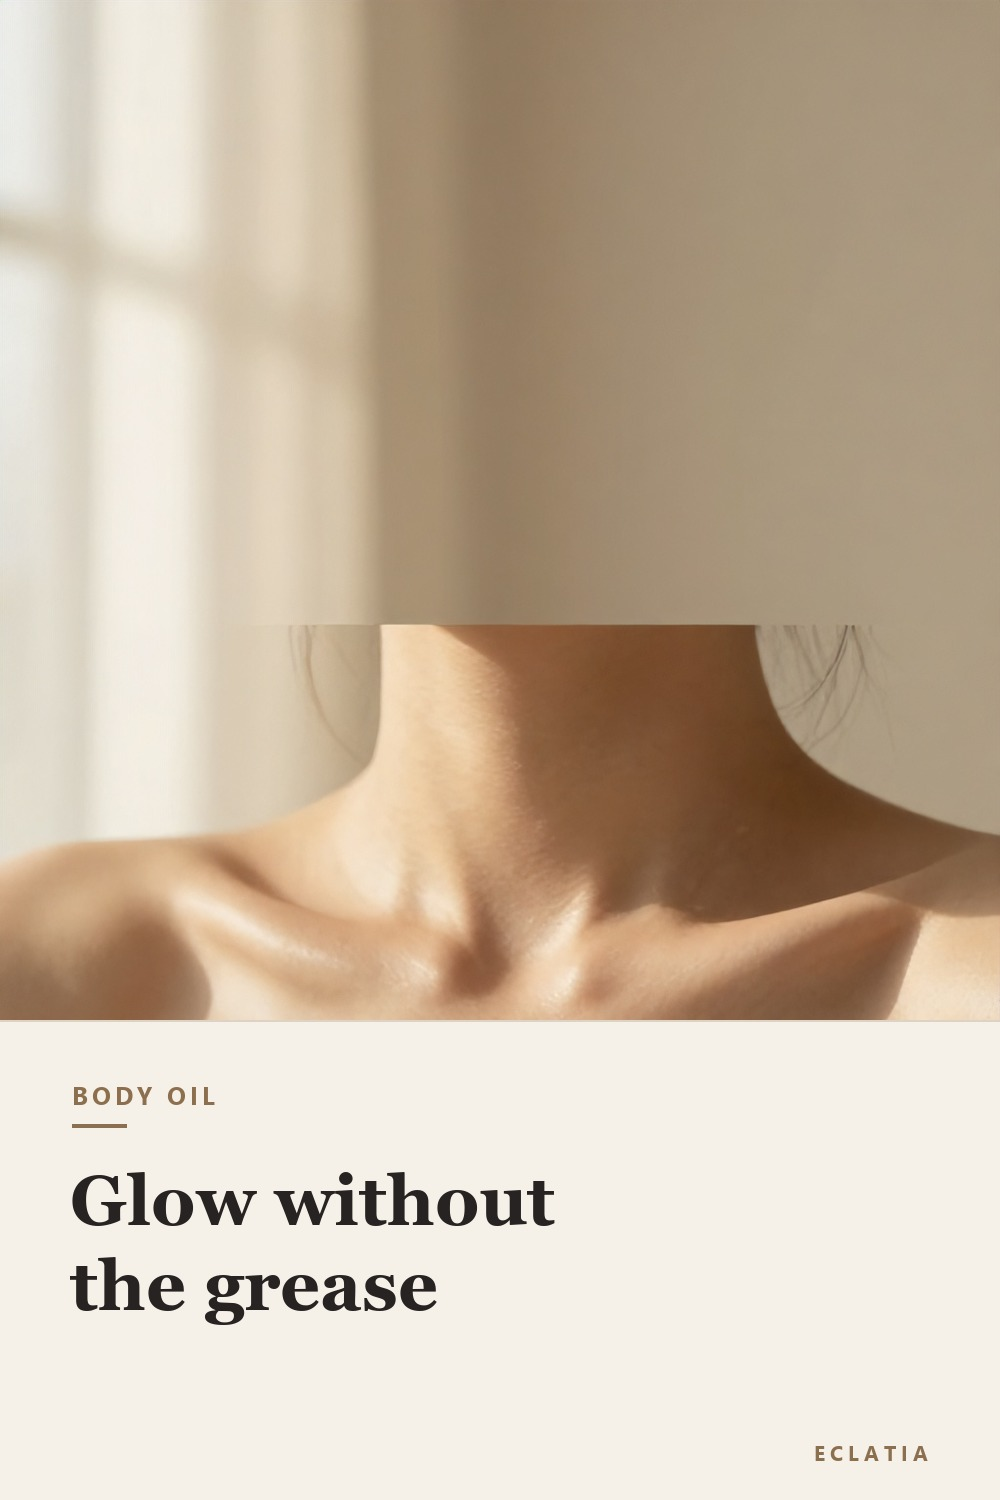
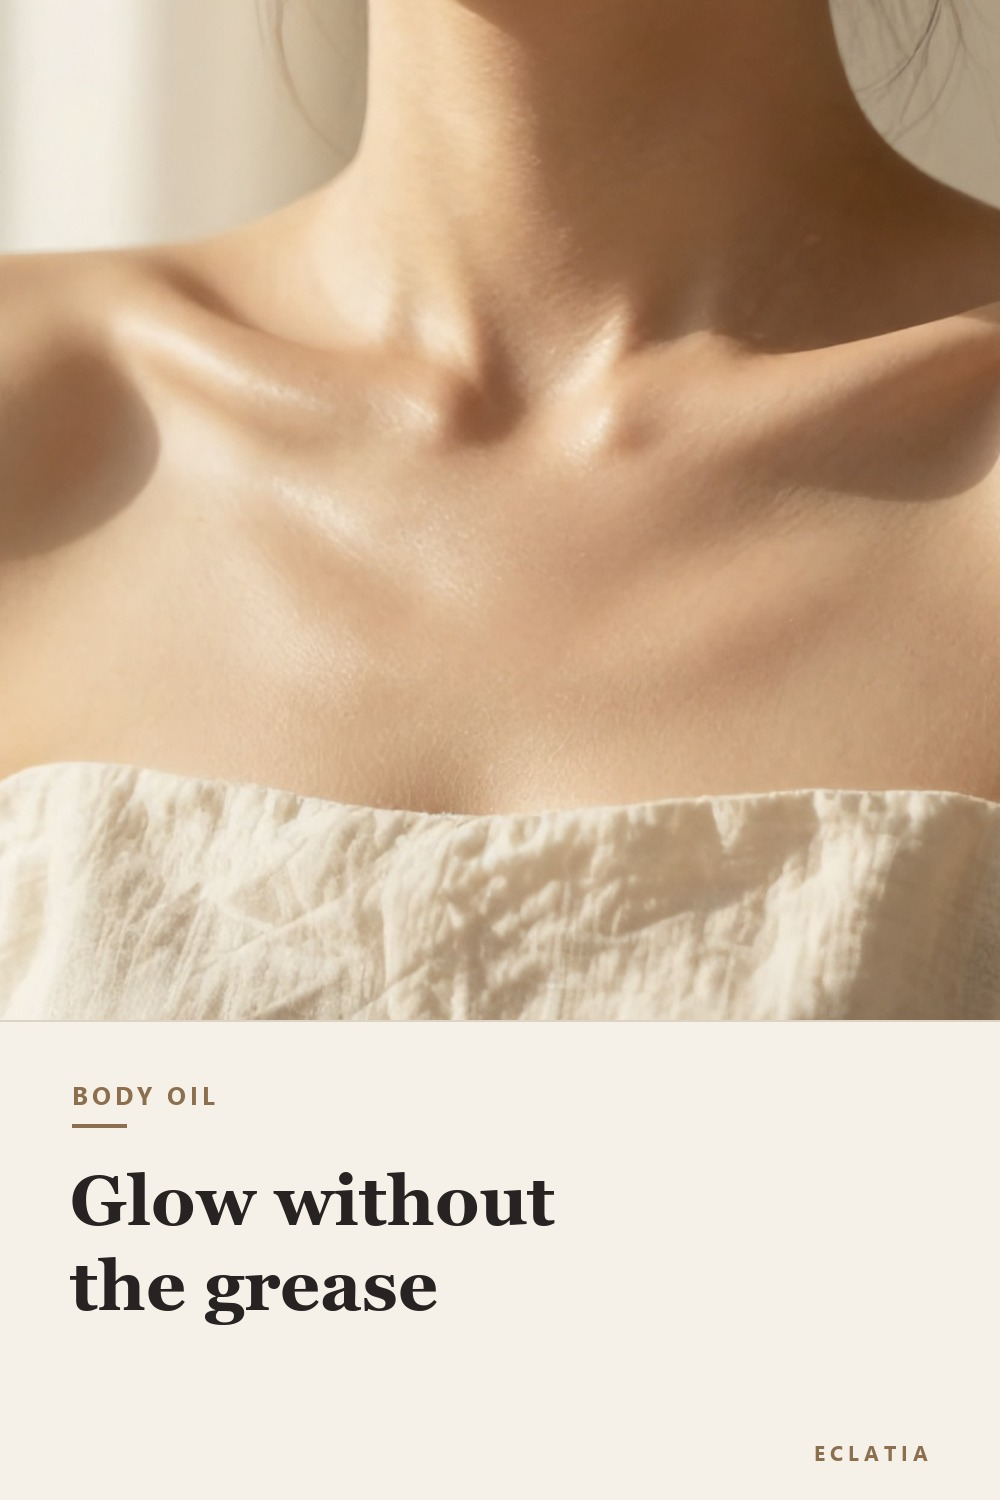
feat(body oil): pages G3/G4/G5/C3 en ligne + orthographe US + visuel P05 reconstruit + fiches pins P05-P08

diff --git a/app/guides/[slug]/page.tsx b/app/guides/[slug]/page.tsx
@@ -195,7 +195,7 @@ const CONTENUS: Record<string, Contenu> = {
       {
         h2: "Three profiles, three answers",
         ul: [
-          "Normal to dry skin, and you want a satin finish before going out: dry oil last, on skin that is already moisturised. Two pumps for the legs, one for the arms.",
+          "Normal to dry skin, and you want a satin finish before going out: dry oil last, on skin that is already moisturized. Two pumps for the legs, one for the arms.",
           "Very dry skin, tight after the shower: lotion or cream first, on skin that is still damp, then a thin layer of shea butter on elbows, knees and heels. Raw shea butter is not an oil: it is solid, melts on contact with warm skin and leaves a richer occlusive film. It is the right pick on an area that really pulls, and the wrong one if you dislike a greasy film.",
           "Reactive skin, redness, fragrance that does not sit well: a fragrance-free lotion or cream, and no scented oil. If you still want an oil, look for \u201cfragrance-free\u201d on the listing, not \u201cnatural scent\u201d.",
         ],
@@ -227,7 +227,7 @@ const CONTENUS: Record<string, Contenu> = {
         ul: [
           "No oil treats a skin condition such as eczema or psoriasis. That is a medical question, not a product choice.",
           "Fragranced oils are the first cause of irritation on reactive skin.",
-          "A dry oil can still mark light-coloured clothes if you overdose it.",
+          "A dry oil can still mark light-colored clothes if you overdose it.",
           "The glow is a visual effect. It does not mean the skin is better hydrated.",
         ],
       },
@@ -351,7 +351,7 @@ const CONTENUS: Record<string, Contenu> = {
   },
   "body-glow-oil": {
     intro: [
-      "A body glow oil is not a moisturiser with extra shine. It is a finishing product: it goes on last, over skin that is already hydrated, and its only job is the way the skin catches the light. Used that way, two pumps cover both legs.",
+      "A body glow oil is not a moisturizer with extra shine. It is a finishing product: it goes on last, over skin that is already hydrated, and its only job is the way the skin catches the light. Used that way, two pumps cover both legs.",
       "The confusion comes from two words that look interchangeable and are not: glow and shimmer. One is a finish, the other is a particle. Below: the four product types side by side, the 4-step method, the two mistakes that turn a sheen into grease, and who should skip it altogether.",
     ],
     reponse:
@@ -390,7 +390,7 @@ const CONTENUS: Record<string, Contenu> = {
           entetes: ["Mistake", "What happens", "Fix"],
           lignes: [
             ["Putting it on the whole body", "Too much surface, too much product, shine everywhere", "Only the areas that catch the light"],
-            ["Putting it on dry, unmoisturised skin", "The oil sits on the surface and the skin still feels tight", "Lotion first, oil last"],
+            ["Putting it on dry, unmoisturized skin", "The oil sits on the surface and the skin still feels tight", "Lotion first, oil last"],
           ],
         },
         p: [
@@ -402,7 +402,7 @@ const CONTENUS: Record<string, Contenu> = {
         ul: [
           "A back or chest that breaks out: an occlusive film does not help there.",
           "Reactive skin: glow oils are often fragranced. Look for fragrance-free on the listing, not for natural scent.",
-          "Light-coloured or silk clothes straight after application.",
+          "Light-colored or silk clothes straight after application.",
           "Children: fragranced formulas and shimmer particles are not designed for them.",
         ],
       },
@@ -473,7 +473,7 @@ const CONTENUS: Record<string, Contenu> = {
       "Three mentions look like the same promise and are not: fragrance-free, unscented, and natural scent. Below: what each one means, the five lines to look for in an ingredient list, the 3-day patch test, and what a body oil will not fix.",
     ],
     reponse:
-      "Fragrance-free means no fragrance has been added. Unscented means the smell has been neutralised, sometimes with a masking fragrance. Natural scent almost always means essential oils or botanical extracts, which are fragrance compounds even when the word fragrance does not appear. For reactive skin, fragrance-free is the default choice.",
+      "Fragrance-free means no fragrance has been added. Unscented means the smell has been neutralized, sometimes with a masking fragrance. Natural scent almost always means essential oils or botanical extracts, which are fragrance compounds even when the word fragrance does not appear. For reactive skin, fragrance-free is the default choice.",
     blocs: [
       {
         h2: "The four labels that look the same",
@@ -481,14 +481,14 @@ const CONTENUS: Record<string, Contenu> = {
           entetes: ["What the listing says", "What it means", "For reactive skin"],
           lignes: [
             ["Fragrance-free", "No fragrance added to the formula", "The default choice"],
-            ["Unscented", "The smell has been neutralised, sometimes by a masking fragrance", "Check further: the mask can irritate"],
+            ["Unscented", "The smell has been neutralized, sometimes by a masking fragrance", "Check further: the mask can irritate"],
             ["Natural fragrance, natural scent", "Essential oils or botanical extracts carry the smell", "Treat it as fragrance"],
             ["No mention at all", "Unknown", "Not worth the risk"],
           ],
         },
       },
       {
-        h2: "Fragrance-free does not mean odourless",
+        h2: "Fragrance-free does not mean odorless",
         p: [
           "This is the point that surprises most people, and it is worth knowing before you open the tub: raw, unrefined shea butter smells strong. That smell is the ingredient, not an added fragrance. It is nutty, sometimes smoky, and it fades as the butter is worked into the skin.",
           "No added fragrance and no smell are two different promises. A product can be fragrance-free and still have a marked natural scent, and a product can smell of nothing because a masking agent is doing the work.",
@@ -501,7 +501,7 @@ const CONTENUS: Record<string, Contenu> = {
           "Essential oils: lavender, citrus, mint, eucalyptus. Natural, and still fragrance compounds that can irritate.",
           "The words fragrance or parfum: the mention to avoid on reactive skin.",
           "Lanolin: well tolerated by many people, a known allergen for others.",
-          "Preservatives such as phenoxyethanol: rarely an issue in an oil with no water in it, but worth recognising on a label.",
+          "Preservatives such as phenoxyethanol: rarely an issue in an oil with no water in it, but worth recognizing on a label.",
         ],
         p: [
           "None of these ingredients is dangerous in itself. The question is whether your skin tolerates it, and the only way to know is to test on a small area.",
@@ -548,7 +548,7 @@ const CONTENUS: Record<string, Contenu> = {
     faq: [
       {
         q: "Is fragrance-free the same as unscented?",
-        a: "No. Fragrance-free means nothing has been added to scent the product. Unscented means the smell has been neutralised, sometimes with a masking fragrance, so it is not necessarily fragrance-free.",
+        a: "No. Fragrance-free means nothing has been added to scent the product. Unscented means the smell has been neutralized, sometimes with a masking fragrance, so it is not necessarily fragrance-free.",
       },
       {
         q: "Can a natural oil be fragrance-free?",
@@ -619,7 +619,7 @@ const CONTENUS: Record<string, Contenu> = {
         p: [
           "The one product in this catalogue that covers both uses is a raw shea butter, marketed on its listing for skin, hair and face. That wording is worth reading carefully: marketed for three uses does not mean suitable for every skin, every hair type and every zone.",
           "It is a solid butter, not an oil: raw, unrefined, degummed, ivory, in a 16 oz (473 ml) tub. It melts at skin temperature, which is why it has to be warmed between the palms first.",
-          "What works: a small amount, warmed between the fingers, on the ends of dry or damp hair; a thin layer on elbows, knees and heels; and under a lighter oil, on skin that is already moisturised.",
+          "What works: a small amount, warmed between the fingers, on the ends of dry or damp hair; a thin layer on elbows, knees and heels; and under a lighter oil, on skin that is already moisturized.",
           "What does not: the scalp, where it is too occlusive and leaves a residue; fine hair, which it flattens; and the face for most skins, which is too rich even though the listing mentions it.",
         ],
       },
@@ -663,7 +663,7 @@ const CONTENUS: Record<string, Contenu> = {
       },
       {
         q: "Can I use hair oil on my body?",
-        a: "You can, but it is an expensive way to moisturise, and some hair oils are built around silicones rather than emollients.",
+        a: "You can, but it is an expensive way to moisturize, and some hair oils are built around silicones rather than emollients.",
       },
       {
         q: "Is shea butter a hair oil?",

diff --git a/app/comparisons/[slug]/page.tsx b/app/comparisons/[slug]/page.tsx
@@ -109,7 +109,7 @@ const CONTENUS: Record<string, Contenu> = {
         h2: "What raw shea butter actually is",
         p: [
           "The product on this page is described by the retailer as raw, unrefined, degummed ivory shea butter in a 16 oz (473 ml) tub, marketed for skin, hair and face. That wording matters: \u201cshea butter\u201d on a label can also mean a blended cream that contains a small percentage of butter.",
-          "\u201cDegummed\u201d means the gums naturally present in the raw fat were removed. It is still unrefined, so the colour and the smell stay those of the raw ingredient.",
+          "\u201cDegummed\u201d means the gums naturally present in the raw fat were removed. It is still unrefined, so the color and the smell stay those of the raw ingredient.",
         ],
         ul: [
           "It is not an oil. It is a solid fat that melts at skin temperature, which is why it has to be warmed between the palms before it spreads.",

diff --git a/data/guides.ts b/data/guides.ts
@@ -106,7 +106,7 @@ export const GUIDES: Guide[] = [
     slug: "body-glow-oil",
     type: "guide",
     titre: "Body Glow Oil: What It Is and How to Use It Without Looking Greasy",
-    description: "Glow oil is a finish, not a moisturiser. The difference with shimmer oil, how much to use, where to put it, and the two mistakes that make it look greasy.",
+    description: "Glow oil is a finish, not a moisturizer. The difference with shimmer oil, how much to use, where to put it, and the two mistakes that make it look greasy.",
     image: "/images/guides/body-glow-oil.jpg",
     imageAlt: "A leg with a satin sheen next to an amber bottle of body oil in warm daylight",
     majLe: "2026-11-01",

diff --git a/scripts/make_pin_p05_fix.py b/scripts/make_pin_p05_fix.py
@@ -1,0 +1,60 @@
+"""Reconstruit le pin P05 sans l'artefact situe en haut de base-P05.jpg.
+
+La photo est recadree sous la bande defectueuse (y >= 650), puis remise au
+format du visuel (1000 x 1020 de photo + bandeau creme de 480 px).
+Le reste de la mise en page reprend celle de make_pins_body_oil.py.
+"""
+import os
+import sys
+
+from PIL import Image, ImageDraw, ImageFont
+
+sys.path.insert(0, os.path.dirname(os.path.abspath(__file__)))
+from make_pins_body_oil import ACCENT, BASE, CREAM, H, INK, LINE, PANEL_H, SEGOE_B, W, fit_font, spaced  # noqa: E402
+
+CODE = "P05"
+KICKER = "BODY OIL"
+LINES = ["Glow without", "the grease"]
+CROP_TOP = 650
+
+
+def build():
+    src = os.path.join(BASE, f"base-{CODE}.jpg")
+    photo = Image.open(src).convert("RGB").crop((0, CROP_TOP, W, 1500))
+    target_h = H - PANEL_H
+    scale = target_h / photo.height
+    photo = photo.resize((round(photo.width * scale), target_h), Image.LANCZOS)
+    left = (photo.width - W) // 2
+    photo = photo.crop((left, 0, left + W, target_h))
+
+    canvas = Image.new("RGB", (W, H))
+    canvas.paste(photo, (0, 0))
+    d = ImageDraw.Draw(canvas)
+
+    d.rectangle([0, H - PANEL_H, W, H], fill=CREAM)
+    d.rectangle([0, H - PANEL_H, W, H - PANEL_H + 1], fill=LINE)
+
+    x = 72
+    fk = ImageFont.truetype(SEGOE_B, 25)
+    spaced(d, (x, H - PANEL_H + 58), KICKER, fk, ACCENT, 4)
+    d.rectangle([x, H - PANEL_H + 104, x + 54, H - PANEL_H + 107], fill=ACCENT)
+
+    f, size = fit_font(d, LINES, W - 2 * x)
+    lh = round(size * 1.22)
+    y = H - PANEL_H + 140
+    for l in LINES:
+        d.text((x - 2, y), l, font=f, fill=INK)
+        y += lh
+
+    fs = ImageFont.truetype(SEGOE_B, 21)
+    label = "ECLATIA"
+    tw = sum(d.textlength(c, font=fs) + 5 for c in label) - 5
+    spaced(d, (W - x - tw, H - 62), label, fs, ACCENT, 5)
+
+    out = os.path.join(BASE, f"pin-{CODE}.jpg")
+    canvas.save(out, quality=92, optimize=True)
+    print("ok", out, canvas.size, os.path.getsize(out) // 1024, "Ko")
+
+
+if __name__ == "__main__":
+    build()

diff --git a/docs/contenus-a-valider/pins/P07-a-publier.md b/docs/contenus-a-valider/pins/P07-a-publier.md
@@ -1,0 +1,48 @@
+# P07 — Oil body wash vs body wash — PRÊT À PUBLIER (04/11)
+
+**Statut :** prêt · **à publier le 04/11/2026**
+**Page de destination :** https://guide-beaute.pages.dev/comparisons/oil-body-wash-vs-body-wash/ (HTTP 200, index/follow, aucun prix)
+
+---
+
+## À copier dans Pinterest
+
+| Champ | Valeur |
+|---|---|
+| **Image** | `docs/contenus-a-valider/visuels/body-oil/pin-P07.jpg` — 1000 × 1500 (2:3) |
+| **Titre** | `Oil Body Wash vs Body Wash - Who Should Switch?` |
+| **Description** | `A classic body wash cleans by removing sebum. A shower oil cleans while sparing more of it. Not a premium version of the same product: a different trade-off, with less lather and a slippery floor. Who should switch, and who should not. #bodywash #showeroil #dryskin` |
+| **Lien** | `https://guide-beaute.pages.dev/comparisons/oil-body-wash-vs-body-wash/?utm_source=Pinterest&utm_medium=organic&utm_campaign=P07` |
+| **Tableau** | `Body Care & Dry Skin` |
+| **Tagged topics** | Body Care · Dry Skin · Beauty Tips · Skincare |
+| **Alt** | `An amber pump bottle on the edge of a bathtub, with a shower running behind it.` |
+
+---
+
+## Vérifications faites
+
+| Affirmation du pin | Présente sur la page ? |
+|---|---|
+| « classic wash cleans by removing sebum » | ✅ intro + tableau (« Strong: removes sebum, sweat, sunscreen ») |
+| « shower oil cleans while sparing more of it » | ✅ intro + tableau (« Gentle… spares more of the lipid film ») |
+| « a different trade-off » | ✅ intro |
+| « less lather » | ✅ tableau (« Little or no lather ») |
+| « slippery floor » | ✅ tableau + section « Who should not » |
+| « who should switch » | ✅ section dédiée |
+| Prix affiché | ❌ aucun |
+| Test / avis inventé | ❌ aucun |
+| Marque sur le visuel | ❌ aucun logo Amazon |
+| Page déjà pinnée | ❌ jamais |
+
+---
+
+## ⚠ Un point d'honnêteté déjà réglé sur la page
+
+La page ne présente **pas** le produit Naturium comme « sans parfum » : elle précise que la senteur vient d'extraits végétaux (vanille, gardénia, clou de girofle). Ne pas écrire « fragrance-free » dans un futur commentaire ou une réponse Pinterest sur ce pin.
+
+---
+
+## Rappels
+
+- Ne jamais modifier le lien après publication.
+- Ne pas cliquer sur son propre pin.

diff --git a/docs/contenus-a-valider/pins/P05-a-publier.md b/docs/contenus-a-valider/pins/P05-a-publier.md
@@ -1,0 +1,46 @@
+# P05 — Body glow oil — PRÊT À PUBLIER (03/11)
+
+**Statut :** prêt · **à publier le 03/11/2026**
+**Page de destination :** https://guide-beaute.pages.dev/guides/body-glow-oil/ (HTTP 200, index/follow, aucun prix)
+
+> ⚠ Le visuel a été **reconstruit le 02/11** : l'ancien `pin-P05.jpg` contenait un artefact blanc en haut de la photo (bande visible). La nouvelle version est propre.
+
+---
+
+## À copier dans Pinterest
+
+| Champ | Valeur |
+|---|---|
+| **Image** | `docs/contenus-a-valider/visuels/body-oil/pin-P05.jpg` — 1000 × 1500 (2:3) |
+| **Titre** | `Body Glow Oil - How to Use It Without Looking Greasy` |
+| **Description** | `Glow oil is a finish, not a moisturizer. Two pumps on the shins and shoulders, never on dry skin, and five minutes before getting dressed. The dosage rule and the 2 mistakes that make it look greasy. #glowoil #bodycare #dryskin` |
+| **Lien** | `https://guide-beaute.pages.dev/guides/body-glow-oil/?utm_source=Pinterest&utm_medium=organic&utm_campaign=P05` |
+| **Tableau** | `Body Care & Dry Skin` |
+| **Tagged topics** | Body Care · Dry Skin · Beauty Tips |
+| **Alt** | `Bare shoulders and collarbone with a subtle sheen, in warm light.` |
+
+---
+
+## Vérifications faites
+
+| Affirmation du pin | Présente sur la page ? |
+|---|---|
+| « glow oil is a finish, not a moisturizer » | ✅ réponse directe |
+| « two pumps on the shins and shoulders » | ✅ bloc « How much product » |
+| « never on dry skin » | ✅ « Putting it on dry, unmoisturized skin » |
+| « five minutes before getting dressed » | ✅ étape 4 de la méthode |
+| « the 2 mistakes » | ✅ bloc « The 2 mistakes that make it look greasy » |
+| Prix affiché | ❌ aucun |
+| Test / avis inventé | ❌ aucun |
+| Marque Amazon citée | ❌ aucune |
+| Page déjà pinnée | ❌ jamais |
+
+> Le visuel dit « Glow without the grease » : c'est le même message que la page, résumé. Aucune contradiction.
+
+---
+
+## Rappels
+
+- Ne jamais modifier le lien après publication.
+- Ne pas cliquer sur son propre pin : ouvrir l'URL du site directement.
+- 1 pin par jour, heure régulière.

diff --git a/docs/contenus-a-valider/pins/P06-a-publier.md b/docs/contenus-a-valider/pins/P06-a-publier.md
@@ -1,0 +1,41 @@
+# P06 — Fragrance-free body oil — PRÊT À PUBLIER (06/11)
+
+**Statut :** prêt · **à publier le 06/11/2026**
+**Page de destination :** https://guide-beaute.pages.dev/guides/fragrance-free-body-oil-sensitive-skin/ (HTTP 200, index/follow, aucun prix)
+
+---
+
+## À copier dans Pinterest
+
+| Champ | Valeur |
+|---|---|
+| **Image** | `docs/contenus-a-valider/visuels/body-oil/pin-P06.jpg` — 1000 × 1500 (2:3) |
+| **Titre** | `Fragrance-Free Body Oil - What to Check on the Label` |
+| **Description** | `Fragrance-free and unscented are not the same thing. Natural scent usually means essential oils. The four label words to tell apart before buying a body oil for reactive skin, plus the 3-day patch test. #sensitiveskin #fragrancefree #bodycare` |
+| **Lien** | `https://guide-beaute.pages.dev/guides/fragrance-free-body-oil-sensitive-skin/?utm_source=Pinterest&utm_medium=organic&utm_campaign=P06` |
+| **Tableau** | `Body Care & Dry Skin` |
+| **Tagged topics** | Sensitive Skin · Skincare · Body Care |
+| **Alt** | `Close-up of a plain white bottle with the text "Fragrance-free or unscented?".` |
+
+---
+
+## Vérifications faites
+
+| Affirmation du pin | Présente sur la page ? |
+|---|---|
+| « fragrance-free and unscented are not the same » | ✅ réponse directe + tableau des 4 mentions |
+| « natural scent usually means essential oils » | ✅ tableau (« Essential oils or botanical extracts carry the smell ») |
+| « the four label words » | ✅ bloc « The four labels that look the same » |
+| « 3-day patch test » | ✅ bloc « The 3-day patch test » |
+| Prix affiché | ❌ aucun |
+| Test / avis inventé | ❌ aucun |
+| Promesse médicale | ❌ aucune (la page dit explicitement qu'une huile ne traite pas l'eczéma) |
+| Page déjà pinnée | ❌ jamais |
+
+---
+
+## Rappels
+
+- Ne jamais modifier le lien après publication.
+- Ne pas cliquer sur son propre pin.
+- Le visuel pose une question (« Fragrance-free or unscented? ») : la description y répond, les deux sont cohérents.

diff --git a/docs/contenus-a-valider/pins/P08-a-publier.md b/docs/contenus-a-valider/pins/P08-a-publier.md
@@ -1,0 +1,41 @@
+# P08 — Hair oil vs body oil — PRÊT À PUBLIER (07/11)
+
+**Statut :** prêt · **à publier le 07/11/2026**
+**Page de destination :** https://guide-beaute.pages.dev/guides/hair-oil-vs-body-oil/ (HTTP 200, index/follow, aucun prix)
+
+---
+
+## À copier dans Pinterest
+
+| Champ | Valeur |
+|---|---|
+| **Image** | `docs/contenus-a-valider/visuels/body-oil/pin-P08.jpg` — 1000 × 1500 (2:3) |
+| **Titre** | `Hair Oil vs Body Oil - Can You Use One for Both?` |
+| **Description** | `Sometimes yes, often no, and the difference is the formula rather than the oil. What works on hair ends but not on the scalp, and the 3 cases where sharing one product goes wrong. #hairoil #bodyoil #haircare` |
+| **Lien** | `https://guide-beaute.pages.dev/guides/hair-oil-vs-body-oil/?utm_source=Pinterest&utm_medium=organic&utm_campaign=P08` |
+| **Tableau** | `Body Care & Dry Skin` |
+| **Tagged topics** | Hair Care · Body Care · Beauty Tips |
+| **Alt** | `A drop of golden oil held between two fingertips, backlit.` |
+
+---
+
+## Vérifications faites
+
+| Affirmation du pin | Présente sur la page ? |
+|---|---|
+| « sometimes yes, often no » | ✅ réponse directe, mot pour mot |
+| « the difference is the formula rather than the oil » | ✅ intro |
+| « works on hair ends but not on the scalp » | ✅ bloc « The shea butter case » |
+| « the 3 cases where sharing goes wrong » | ✅ bloc « The 3 cases where you should not share » |
+| Prix affiché | ❌ aucun |
+| Test / avis inventé | ❌ aucun |
+| Promesse « repousse » / « anti-chute » | ❌ aucune (la FAQ dit explicitement qu'aucun produit ne fait ça) |
+| Page déjà pinnée | ❌ jamais |
+
+---
+
+## Rappels
+
+- Ne jamais modifier le lien après publication.
+- Ne pas cliquer sur son propre pin.
+- Le visuel ne montre aucun cheveu : il montre une goutte d'huile. C'est volontaire — une image de cheveux laisserait croire à un produit capillaire précis, alors que la page parle de formule et d'usage.
